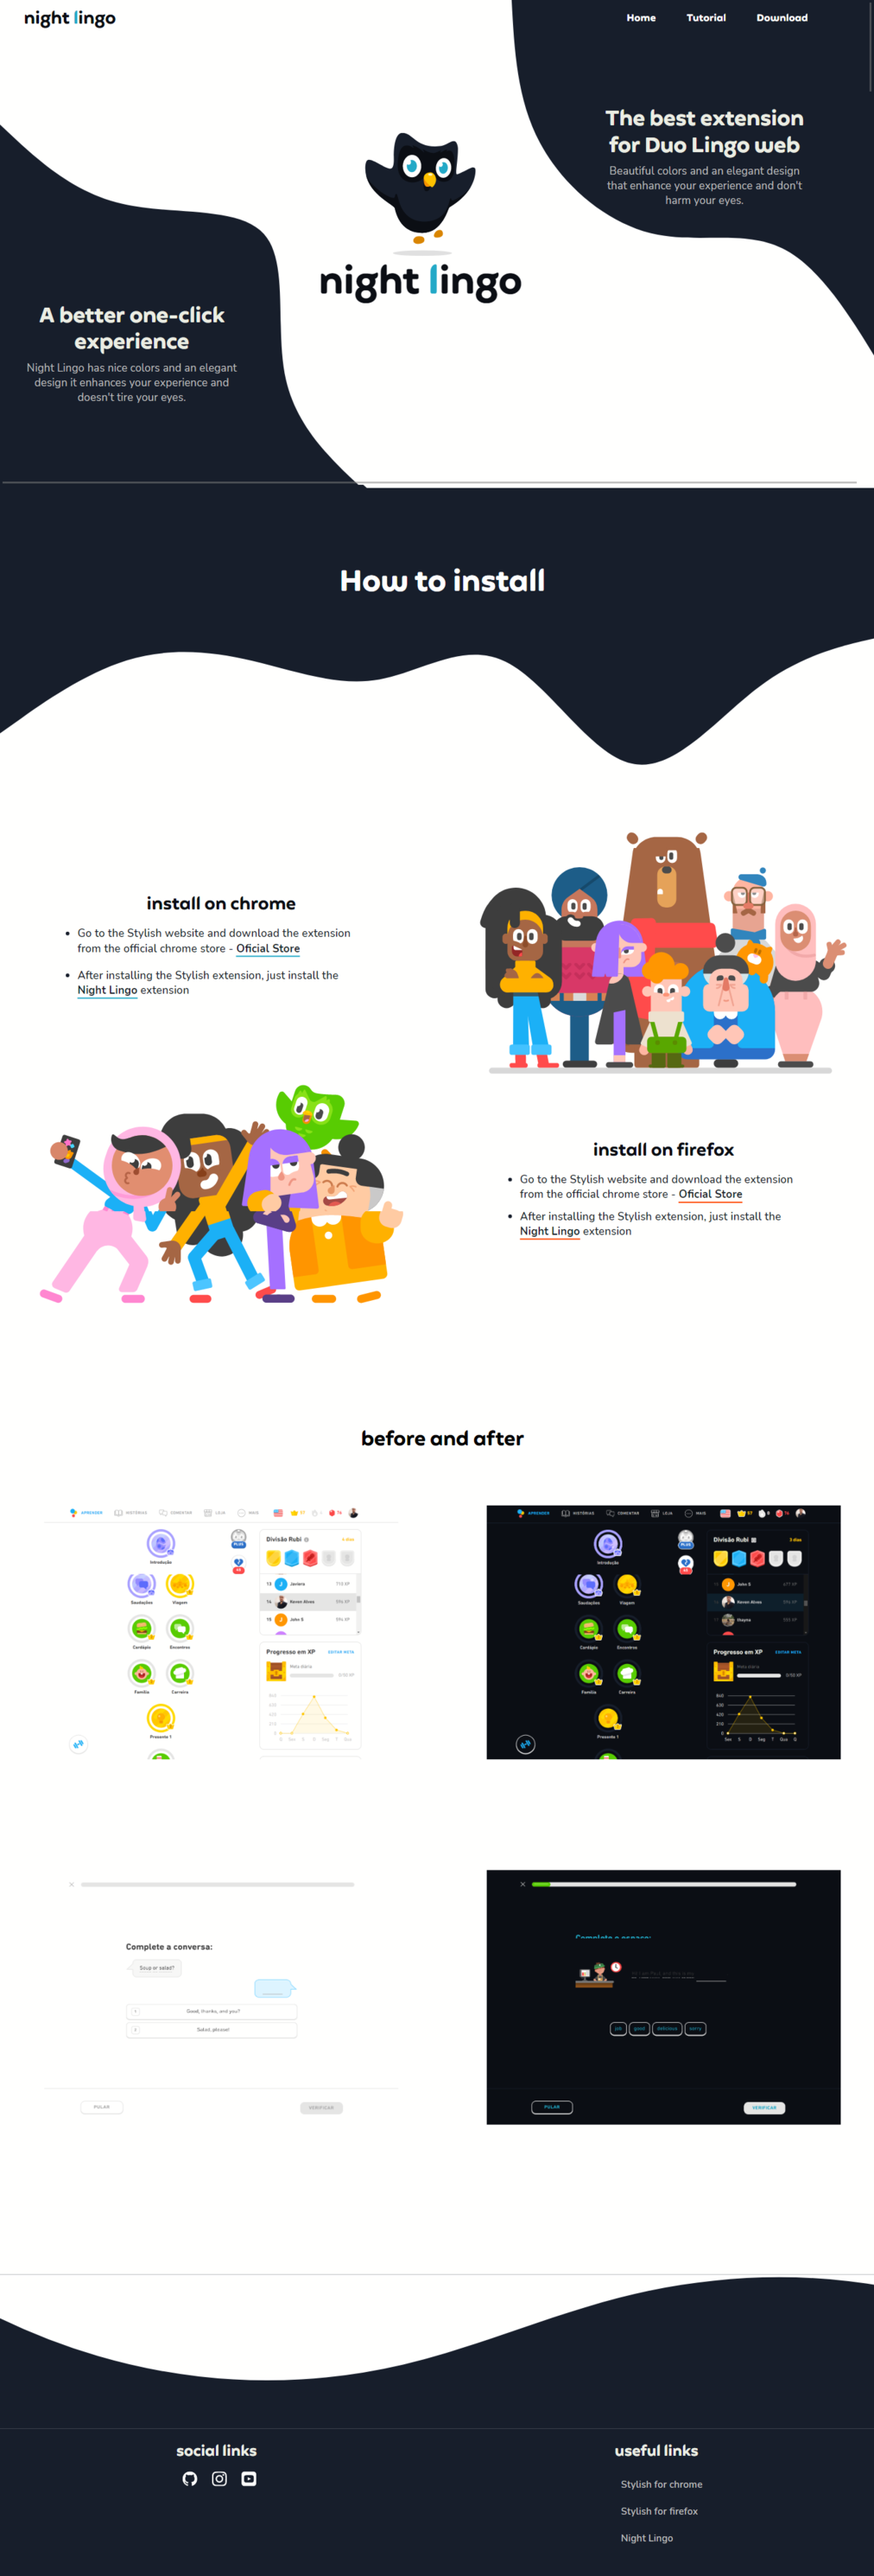
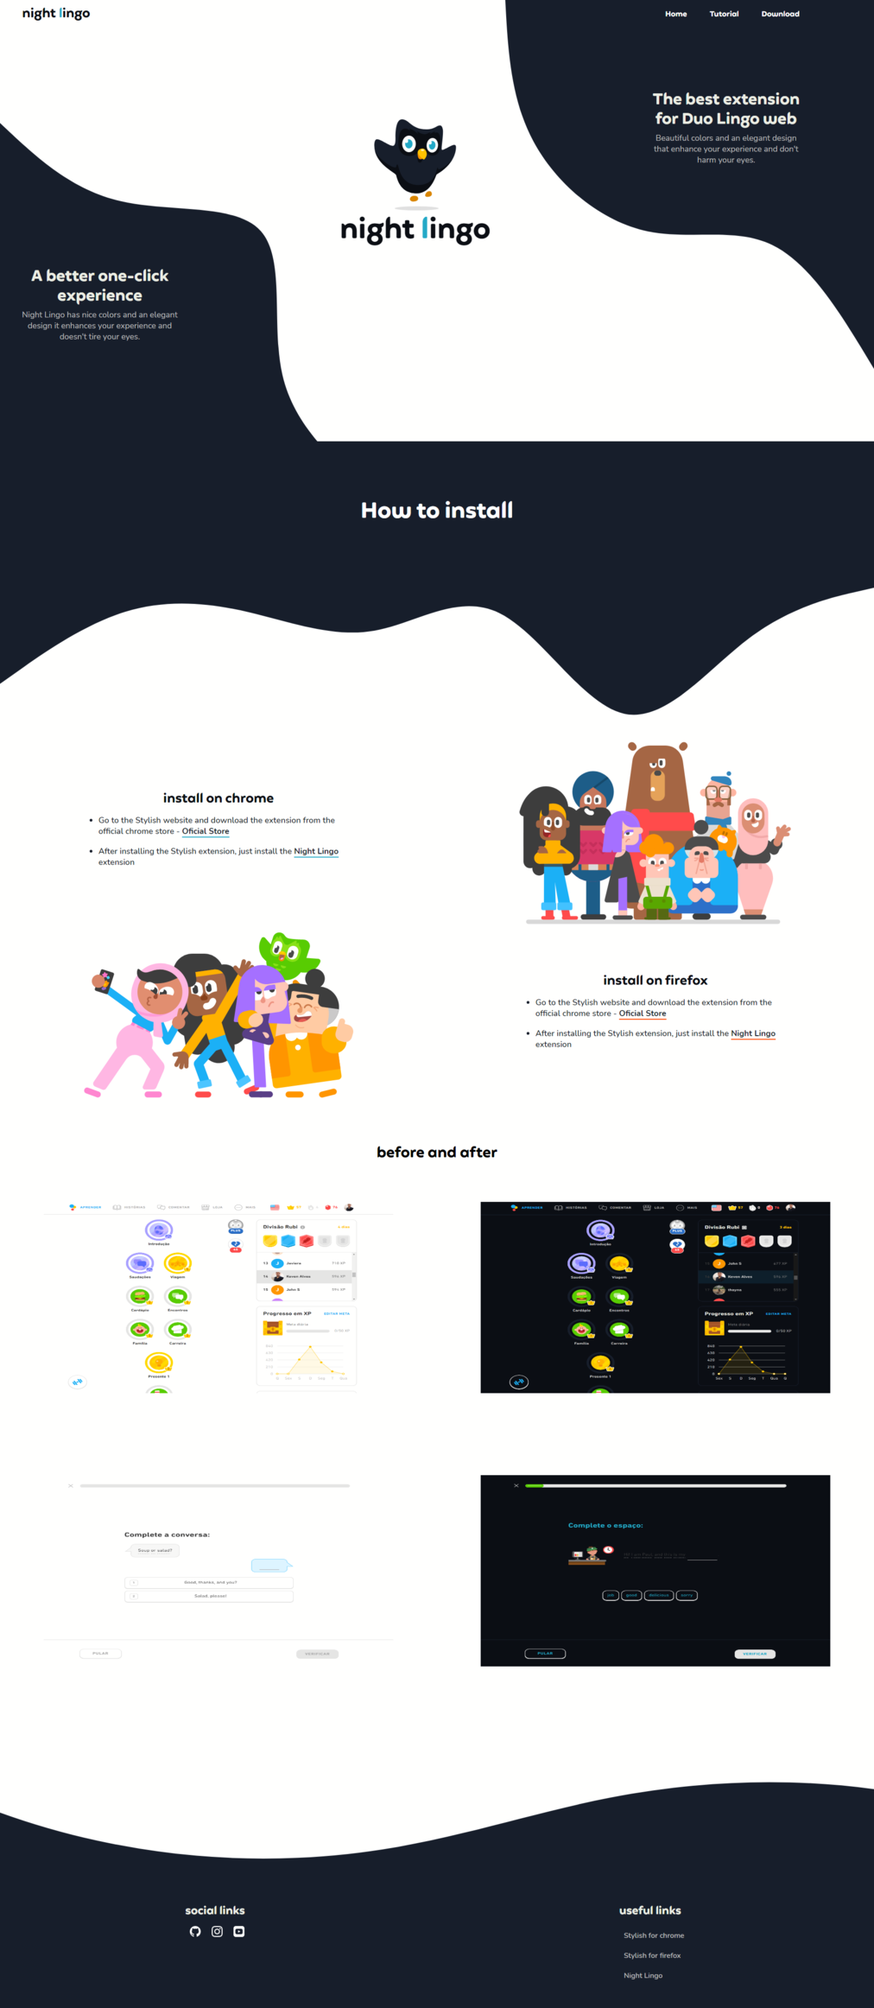
readme finalizado

diff --git a/README.md b/README.md
@@ -11,6 +11,13 @@ Uma extensão com cores elegantes que deixa a experiência muito mais agradável
 
 Já o site [Night Lingo](https://sunnyside-kev.netlify.app/) surgiu como uma forma eficiente de apresentar o método de instalação desta extensão para o público geral.
 
+## 🔧 Tecnologias utilizadas:
+![HTML](https://img.shields.io/badge/-HTML-05122A?style=flat&logo=html5)&nbsp;
+![CSS](https://img.shields.io/badge/-CSS-05122A?style=flat&logo=css3)&nbsp;
+![SasS](https://img.shields.io/badge/-SasS-05122A?style=flat&logo=SasS)&nbsp;
+![JavaScript](https://img.shields.io/badge/-JavaScript-05122A?style=flat&logo=javascript)&nbsp;
+ <br/>
+
 ## 🖥 Duolingo | Night Lingo
 
 <p align="center"><strong> Home Page </strong></p>
@@ -28,7 +35,7 @@ Já o site [Night Lingo](https://sunnyside-kev.netlify.app/) surgiu como uma for
 ## 🖥 Preview do site oficial Night Lingo
 
 <p align="center">
-  <img src="img\readme-image\desktop.png" width="1012" height="2980"/>
+  <img src="img\readme-image\desktop.png" width="1012" height="2324"/>
 </p>
 
 ## 📳 Preview final do site mobile
